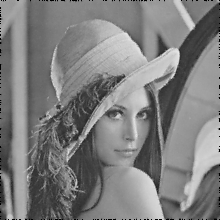
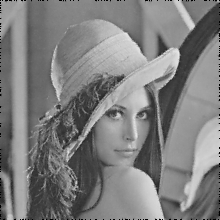
started to rewrite poisson class for support for implicit method

diff --git a/src/rapport_snippets/blur.py b/src/rapport_snippets/blur.py
@@ -1,11 +1,94 @@
 #from gui.interfaces import blurring_qt
+import time
+
+# https://stackoverflow.com/a/5478448
+def timing(f):
+	def wrap(*args):
+		time1 = time.time()
+		ret = f(*args)
+		time2 = time.time()
+		print('%s function took %0.3f ms' % (f.__name__, (time2-time1)*1000.0))
+		return ret
+	return wrap
 
 from PIL import Image
 from rapport_snippets.figs import *
 from backend import blurring
+import scipy
+import scipy.ndimage
+import scipy.misc
+import matplotlib.pyplot as plt
+from matplotlib.pyplot import imread, imshow
+import numpy as np
+from scipy import ndimage
+
+def dnorm(x, mu, sd):
+    return 1 / (np.sqrt(2 * np.pi) * sd) * np.e ** (-np.power((x - mu) / sd, 2) / 2)
+
+def gaussian_kernel(size, sigma=1, verbose=False):
+    kernel_1D = np.linspace(-(size // 2), size // 2, size)
+    for i in range(size):
+        kernel_1D[i] = dnorm(kernel_1D[i], 0, sigma)
+    kernel_2D = np.outer(kernel_1D.T, kernel_1D.T)
+ 
+    kernel_2D *= 1.0 / kernel_2D.max()
+ 
+    if verbose:
+        plt.imshow(kernel_2D, interpolation='none', cmap='gray')
+        plt.title("Kernel ( {}X{} )".format(size, size))
+        plt.show()
+ 
+    return kernel_2D
+
+@timing
+def test_blur_filter():
+	#face = imread("./files/test_images/lena.png")
+	blurring_obj = blurring.blur("./files/test_images/lena.png", False)
+	image = blurring_obj.data
+	#blurred_face = scipy.ndimage.gaussian_filter(face, sigma=3)
+	kernel = gaussian_kernel(3, sigma=52)
+#	print(x.shape)
+#	print(face.sh)
+#	ndimage.convolve2d(face, x, mode='nearest')
+#	imshow(scipy.ndimage.convolve(face, x, mode='nearest'))
+#	plt.show()
+	image_row, image_col = image.shape
+	kernel_row, kernel_col = kernel.shape
+	 
+	output = np.zeros(image.shape)
+	 
+	pad_height = int((kernel_row - 1) / 2)
+	pad_width = int((kernel_col - 1) / 2)
+	 
+	padded_image = np.zeros((image_row + (2 * pad_height), image_col + (2 * pad_width)))
+	padded_image[pad_height:padded_image.shape[0] - pad_height, pad_width:padded_image.shape[1] - pad_width] = image
+
+#	for i in range(4):
+	if(False):
+		for row in range(image_row):
+			for col in range(image_col):
+				output[row, col] = np.sum(kernel * padded_image[row:row + kernel_row, col:col + kernel_col])#.clip(0,1)
+#		padded_image[pad_height:padded_image.shape[0] - pad_height, pad_width:padded_image.shape[1] - pad_width] = out
+
+	output = scipy.ndimage.gaussian_filter(image, sigma=5)
+
+#	imshow(output, cmap='gray')#scipy.ndimage.convolve(image, x, mode='nearest'))
+#	plt.show()
 
 
-blurring_obj = blurring.blur("./files/test_images/lena.png", False)
+@timing
+def test_blur_poision():
+	blurring_obj = blurring.blur("./files/test_images/lena.png", False)
+	blurring_obj.fit(50)
+	#blurring_obj.show()
+
+test_blur_poision()
+test_blur_filter()
+
+#imshow(very_blurred)
+#plt.show()
+
+'''
 epoch_count = {
 	0.5:[3, 5, 10],
 	0.75:[3, 5, 10]
@@ -13,4 +96,4 @@ epoch_count = {
 
 results_doc = compile_doc(blurring_obj, epoch_count, "./rapport_snippets/output/blur/", "glatting/blur")
 results_doc.save("rapport_snippets/output/blur/results.tex")
-
+'''

diff --git a/src/engine/poisson.py b/src/engine/poisson.py
@@ -1,5 +1,7 @@
 from nptyping import Array
-
+import numpy as np
+from scipy.sparse import spdiags
+from scipy.sparse.linalg import spsolve
 
 class poisson:
     """
@@ -7,6 +9,10 @@ class poisson:
     """
 
     def __init__(self):
+        self.EXPLICIT = 0
+        self.IMPLICIT = 1 
+
+        self.mode = self.IMPLICIT
         #self.data = None
         pass
 
@@ -28,3 +34,53 @@ class poisson:
                   + data[1:-1, 2:] \
                   - 4 * data[1:-1, 1:-1]
         return laplace
+
+    def explicit(self, data, h):
+        alpha = 0.25
+        return (alpha * self.get_laplace(data) - h(data)[1:-1, 1:-1])
+
+    def implicit(self, data, h):
+        # Systemmatrisen
+        j = self.data.shape[1]
+        i = self.data.shape[0]
+
+        """
+        wait, how do we set a h in this ? 
+
+        """
+        # we need 2 diagonals for i and j 
+        upperdiag = np.concatenate(([0, 0], -self.alpha * np.ones(j - 2)))
+        upperdiag1 = np.concatenate(([0, 0], -self.alpha * np.ones(i - 2)))
+
+        centerdiag = np.concatenate(([1], (1 + 4 * self.alpha) * np.ones(j - 2),
+                                     [1]))
+
+        # we need 2 diagonals for i and j
+        lowerdiag = np.concatenate((-self.alpha * np.ones(j - 2), [0, 0]))
+        lowerdiag1 = np.concatenate((-self.alpha * np.ones(i - 2), [0, 0]))
+
+        diags = np.array([upperdiag, upperdiag1, centerdiag, lowerdiag, lowerdiag1])
+        A = spdiags(diags, [2, 1, 0, -1, -2], j, j).tocsc()
+
+     #   print(self.data.shape)
+    #    print(h(self.data).shape)
+        return spsolve(A, self.data[:, :]) - h(self.data)
+
+    def solve(self, data, h=lambda x: 0):
+        if(self.mode == self.EXPLICIT):
+            data[1:-1, 1:-1] += self.explicit(data, h)
+        elif(self.mode == self.IMPLICIT):
+            data[:, :] = self.implicit(data, h)
+        else:
+            raise Exception("Not supported")
+        return data
+
+
+
+
+
+
+
+
+
+

diff --git a/src/backend/blurring.py b/src/backend/blurring.py
@@ -18,7 +18,7 @@ class blur(image_handler.ImageHandler, poisson.poisson, boundary.Boundary):
 		poisson.poisson.__init__(self)
 		boundary.Boundary.__init__(self)
 		self.alpha: float = 0.25
-		self.lambda_size: float = 0
+		self.lambda_size: float = 0.1
 		#self.data_copy = self.data.copy()
 
 	def set_lambda_size(self, lambda_size) -> None:
@@ -37,15 +37,18 @@ class blur(image_handler.ImageHandler, poisson.poisson, boundary.Boundary):
 		Does one iteration of the method.
 
 		"""
+		assert(0 <= self.lambda_size <= 1)
 		laplace = self.get_laplace()
 	#	print(self.lambda_size)
 		old = self.data.copy()
 
 		# TODO : Seems like data attachment works, but it still "flickers" after some iterations, figure out why 
-		self.data[1:-1, 1:-1] += (self.alpha * laplace) - (self.lambda_size * (self.data[1:-1, 1:-1] - self.data_copy[1:-1, 1:-1]))
-		self.data = self.data.clip(0, 1)
+		h = lambda x: (self.lambda_size * (self.data - self.data_copy))
+		self.data = self.solve(self.data, h) 
+#		self.data[1:-1, 1:-1] += (self.alpha * laplace) - (self.lambda_size * (self.data[1:-1, 1:-1] - self.data_copy[1:-1, 1:-1]))
+#		self.data = self.data.clip(0, 1)
 		self.data = self.neumann(self.data)
-		self.data = self.data.clip(0, 1)
+#		self.data = self.data.clip(0, 1)
 	#	print((old - self.data).sum())
 		return self.data
 

diff --git a/src/experiment.py b/src/experiment.py
@@ -1,9 +1,10 @@
+
 from experimental import implicit
 from backend import blurring
 
 from experimental import implicit_inpait
 from backend import inpaiting
-
+'''
 #x = implicit.blur("./files/test_images/lena.png")
 y = implicit_inpait.inpaint("./files/test_images/lena.png")
 x = inpaiting.inpaint("./files/test_images/lena.png")
@@ -18,16 +19,20 @@ y.save("./experimental/results/implicit.png")
 
 x.fit(epochs=10)
 x.save("./experimental/results/explicit.png")
-
+'''
 
 #x.show()
 
 
-'''
 y = blurring.blur("./files/test_images/lena.png")
-y.fit(4)
+y.fit(500)
 y.show()
 
+print("hei")
 
+y.fit(1000)
+y.show()
+
+'''
 print((x.data - y.data).sum())
 '''

diff --git a/src/experimental/implicit.py b/src/experimental/implicit.py
@@ -79,13 +79,14 @@ class blur(image_handler.ImageHandler, poisson.poisson, boundary.Boundary):
 		diags = np.array([upperdiag, upperdiag1, centerdiag, lowerdiag, lowerdiag1])
 		A = spdiags(diags, [2, 1, 0, -1, -2], j, j).tocsc()
 
+		print(A.shape)
 		self.data[:, :] = spsolve(A, self.data[:, :])
 		self.data = self.data.clip(0, 1)
 		self.data = self.neumann(self.data)
 		self.data = self.data.clip(0, 1)
 
 		return self.data
-
+		
 	def fit(self, epochs):
 		"""
 		Makes multiple iterations of the method

diff --git a/src/experimental/implicit_inpait.py b/src/experimental/implicit_inpait.py
@@ -106,8 +106,13 @@ class inpaint(image_handler.ImageHandler, poisson.poisson, boundary.Boundary):
 		diags = np.array([upperdiag, upperdiag1, centerdiag, lowerdiag, lowerdiag1])
 		A = spdiags(diags, [2, 1, 0, -1, -2], j, j).tocsc()
 
+		print(A.shape)
+
 		self.data[:, :] = spsolve(A, self.data[:, :])
 		self.data = (self.data * (1 - self.mask)) + (self.original_data * (self.mask))
+		self.data = self.neumann(self.data)
+		self.data = self.data.clip(0, 1)
+
 		return self.data
 		
 	def fit(self, epochs):

diff --git a/src/snippets.py b/src/snippets.py
@@ -1,10 +1,10 @@
-#from rapport_snippets import blur
+from rapport_snippets import blur
 #from rapport_snippets import contrasting
 #from rapport_snippets import inpaiting
 #from rapport_snippets import matting
 #from rapport_snippets import anonymizing
 #from rapport_snippets import demosaic
-from rapport_snippets import non_edge_blurring
+#from rapport_snippets import non_edge_blurring
 #from rapport_snippets import grayscale
 
 """
